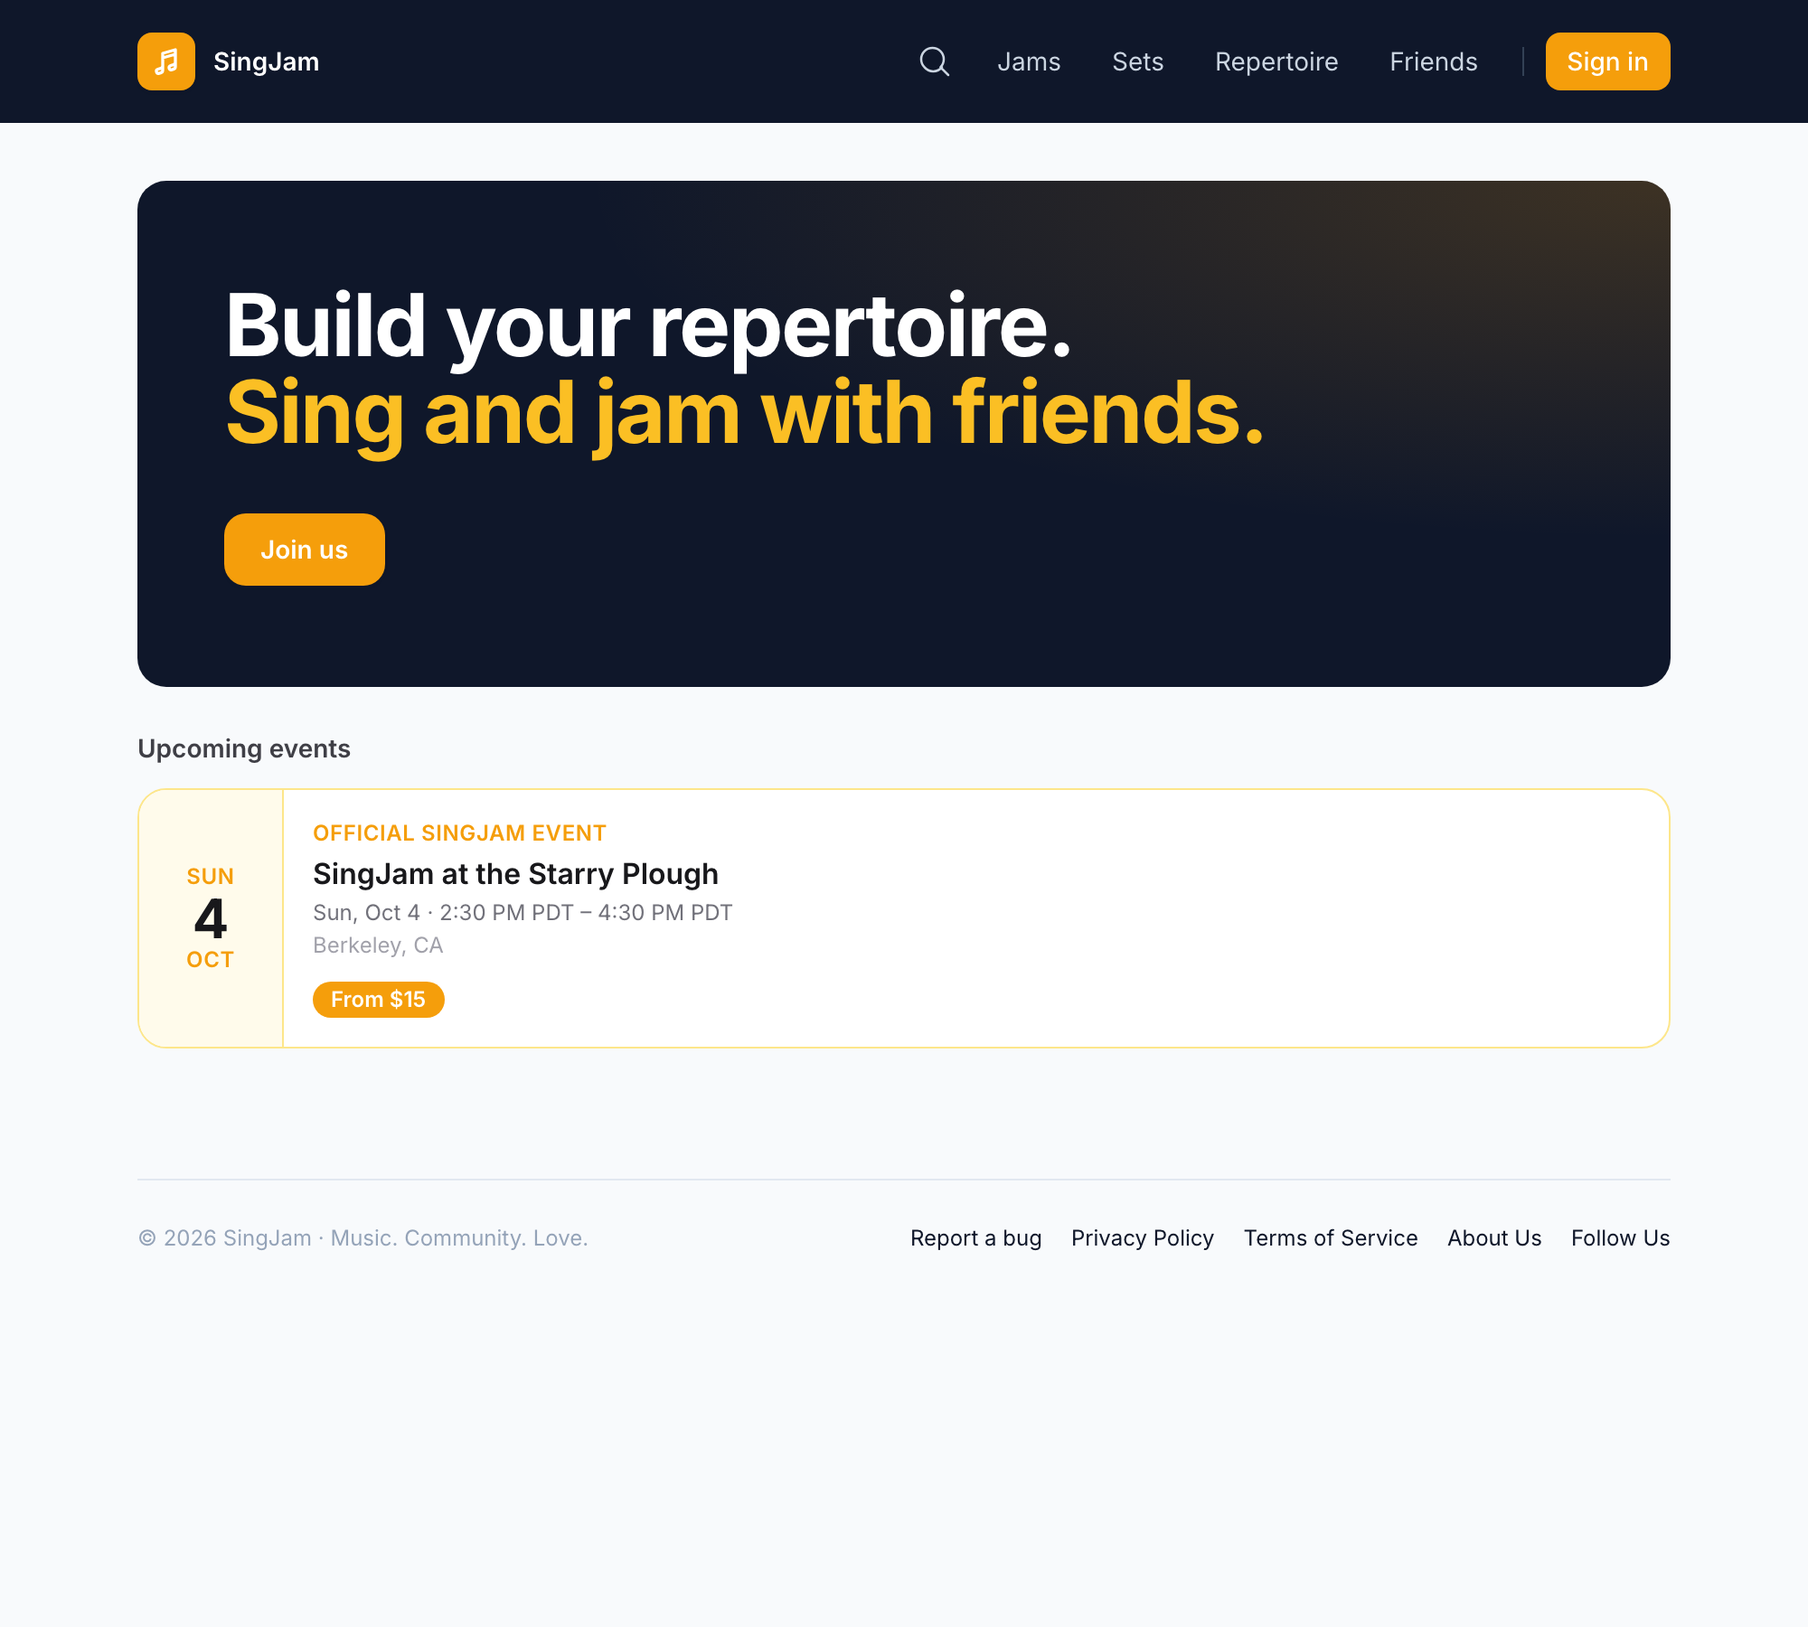
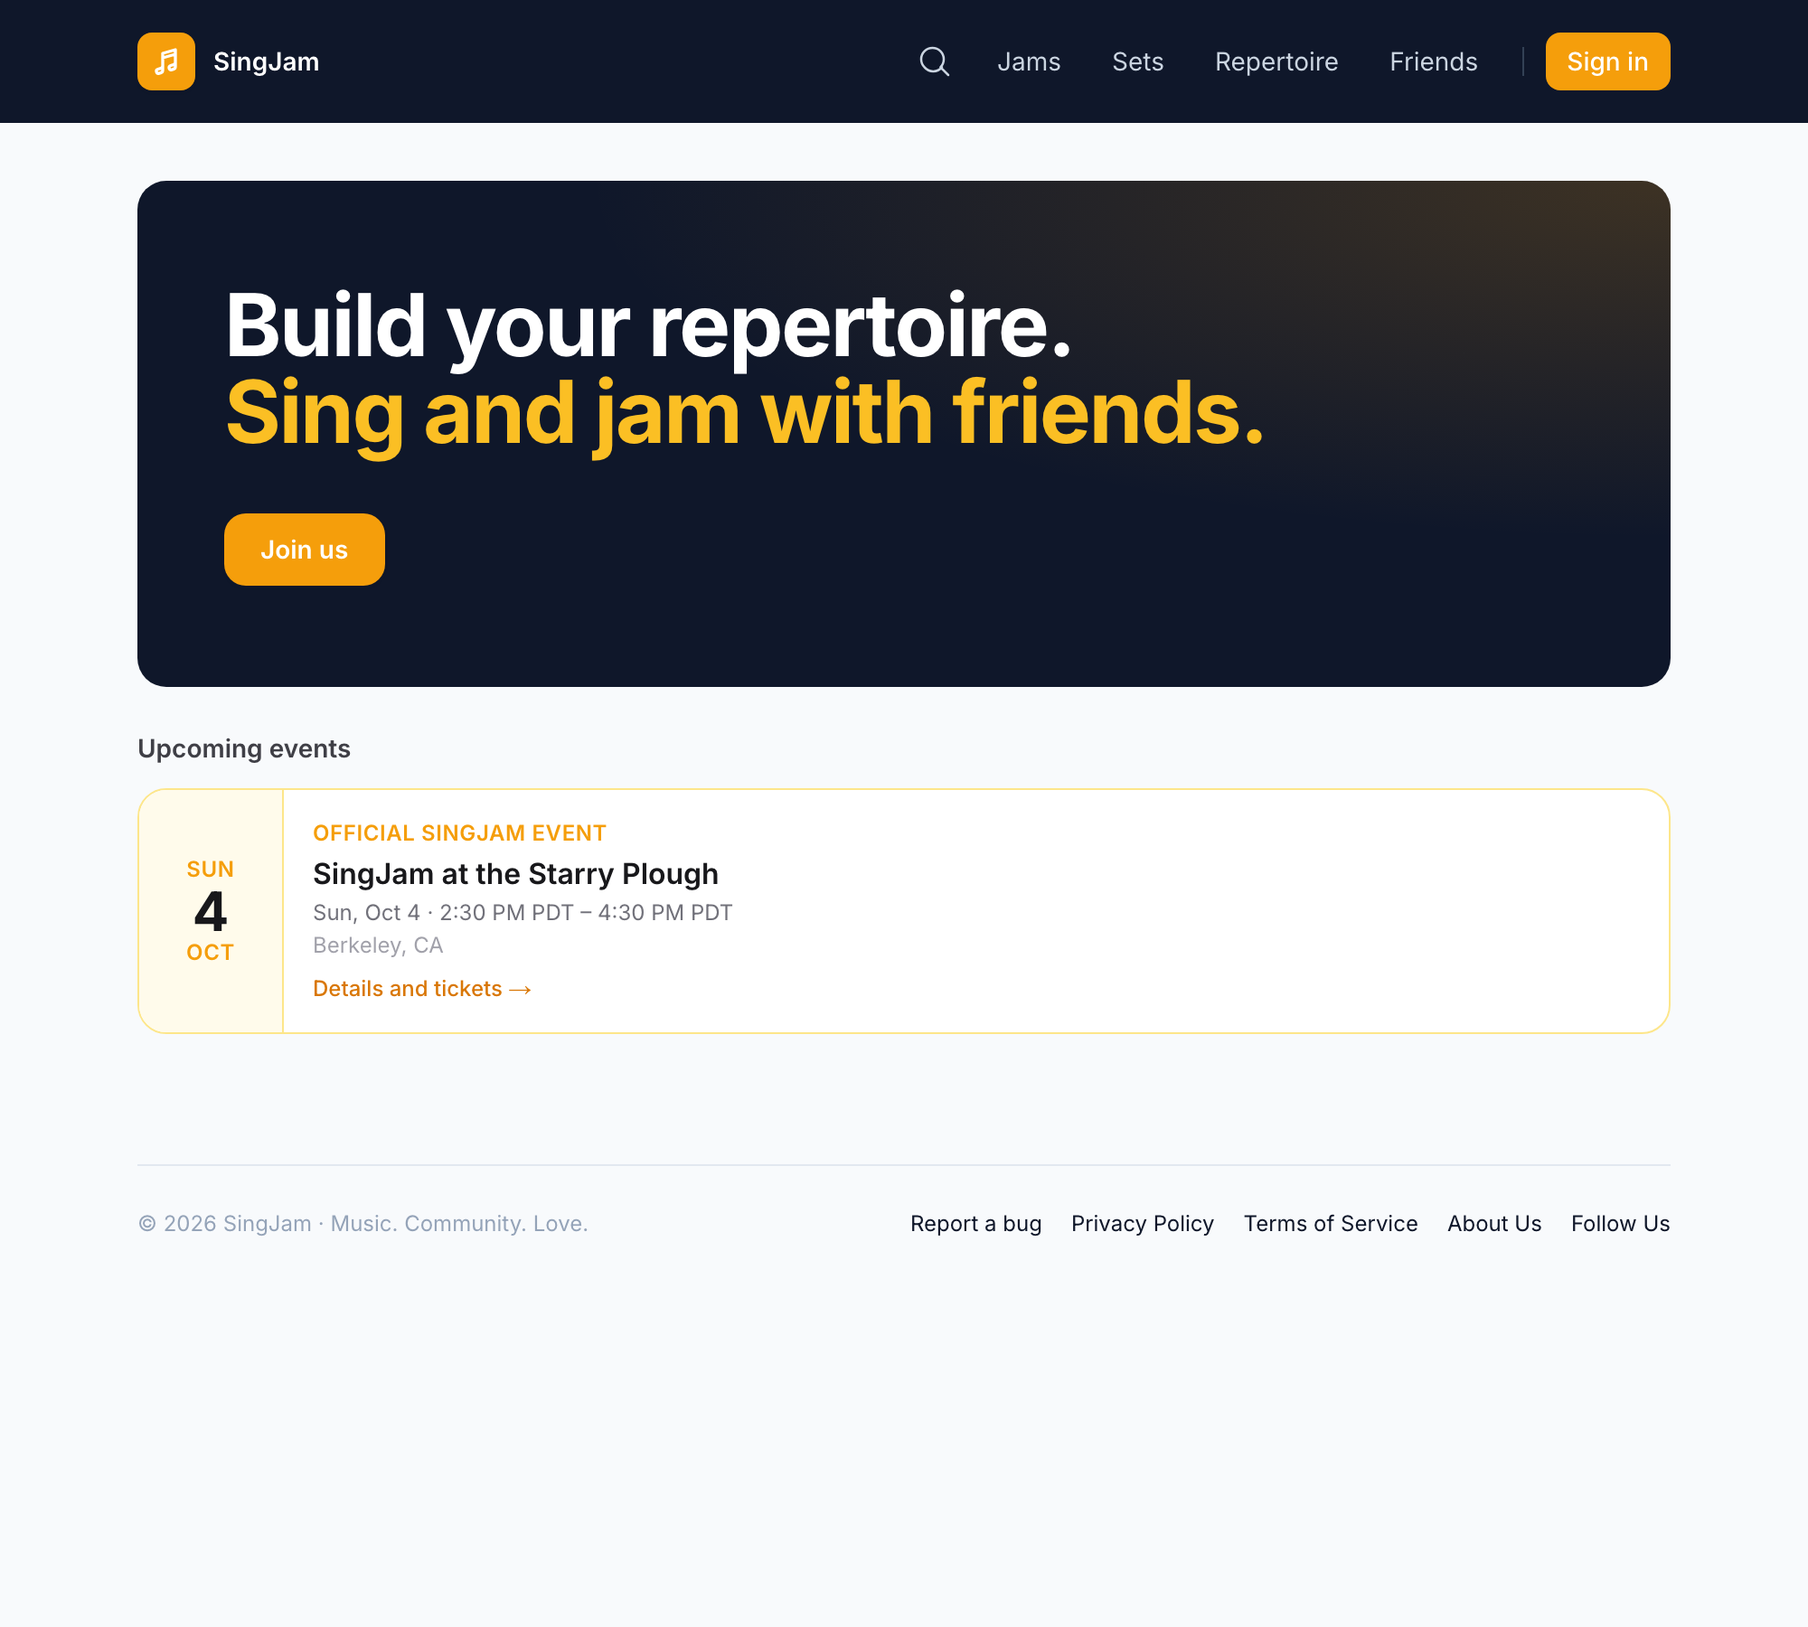
refactor: one "Details and tickets →" link instead of a price chip
The price chip was a solid amber pill, which reads as a primary button while
being deliberately unclickable — the card is the link. Comparing it against
Luma and Eventbrite made that plain: both keep price as flat information and
reserve tinted pills for status, and neither uses a filled primary colour for
something inert.

Ben's call is simpler than either: keep the card exactly as it looked, make
the whole thing clickable, and merge the old "View details →" and
"Get tickets ↗" into a single "Details and tickets →". So the listing says
what you can do and the detail page says what it costs.

The tier data still earns its place: it decides whether an event has anything
to sell, so the label degrades to "View details →" with no ticketing and
"Sold out — view details →" when there is nothing left to buy, rather than
walking someone into a checkout that will refuse them.

diff --git a/packages/core/src/utils/jamTicketState.test.ts b/packages/core/src/utils/jamTicketState.test.ts
@@ -1,5 +1,6 @@
 import { describe, it, expect } from 'vitest';
 import {
+  jamTicketCta,
   jamTicketState,
   summarizeTicketTiers,
   type JamTicketSummary,
@@ -26,7 +27,7 @@ describe('jamTicketState', () => {
     expect(jamTicketState('https://tickets.example.com', summary(), { now: NOW })).toEqual({
       label: 'Tickets',
       url: 'https://tickets.example.com',
-      muted: false,
+      kind: 'external',
     });
   });
 
@@ -55,7 +56,7 @@ describe('jamTicketState', () => {
     expect(jamTicketState(null, summary({ sold_out: true, on_sale_count: 0 }), { now: NOW })).toEqual({
       label: 'Sold out',
       url: null,
-      muted: true,
+      kind: 'unavailable',
     });
   });
 
@@ -65,7 +66,7 @@ describe('jamTicketState', () => {
       summary({ on_sale_count: 0, min_price_cents: null, next_sales_start_at: '2026-09-11T17:00:00Z' }),
       { timezone: 'America/Los_Angeles', now: NOW }
     );
-    expect(state).toEqual({ label: 'Tickets open Fri', url: null, muted: true });
+    expect(state).toEqual({ label: 'Tickets open Fri', url: null, kind: 'pending' });
   });
 
   it('names a date when sales open further out', () => {
@@ -87,7 +88,7 @@ describe('jamTicketState', () => {
 
   it('falls back to sales closed when nothing is on sale and nothing reopens', () => {
     const state = jamTicketState(null, summary({ on_sale_count: 0, min_price_cents: null }), { now: NOW });
-    expect(state).toEqual({ label: 'Sales closed', url: null, muted: true });
+    expect(state).toEqual({ label: 'Sales closed', url: null, kind: 'unavailable' });
   });
 });
 
@@ -193,5 +194,60 @@ describe('summarizeTicketTiers', () => {
       tier({ ticket_type_id: 't2', price_cents: 3600 }),
     ]);
     expect(jamTicketState(null, byJam.get('j1'), { now: NOW })?.label).toBe('From $15');
+  });
+});
+
+// A price is information, not an action: it must never come back as something a
+// component would style like a button. Everything else is status.
+describe('jamTicketState kinds', () => {
+  it('classifies a price as price and the rest as status', () => {
+    expect(jamTicketState(null, summary(), { now: NOW })?.kind).toBe('price');
+    expect(jamTicketState(null, summary({ min_price_cents: 0 }), { now: NOW })?.kind).toBe('price');
+    expect(jamTicketState(null, summary({ sold_out: true }), { now: NOW })?.kind).toBe('unavailable');
+    expect(jamTicketState('https://x.test', null, { now: NOW })?.kind).toBe('external');
+  });
+
+  it('only the external kind carries a url', () => {
+    for (const state of [
+      jamTicketState(null, summary(), { now: NOW }),
+      jamTicketState(null, summary({ sold_out: true }), { now: NOW }),
+      jamTicketState(null, summary({ on_sale_count: 0, min_price_cents: null }), { now: NOW }),
+    ]) {
+      expect(state?.url).toBeNull();
+    }
+    expect(jamTicketState('https://x.test', null, { now: NOW })?.url).toBe('https://x.test');
+  });
+});
+
+describe('jamTicketCta', () => {
+  it('offers tickets when there is something to buy', () => {
+    expect(jamTicketCta(null, summary(), { now: NOW })).toEqual({
+      label: 'Details and tickets',
+      hasTickets: true,
+    });
+    expect(jamTicketCta('https://x.test', null, { now: NOW }).label).toBe('Details and tickets');
+    expect(jamTicketCta(null, summary({ min_price_cents: 0 }), { now: NOW }).label).toBe('Details and tickets');
+  });
+
+  it('falls back to plain details when the event has no ticketing', () => {
+    expect(jamTicketCta(null, null, { now: NOW })).toEqual({
+      label: 'View details',
+      hasTickets: false,
+    });
+  });
+
+  // Pointing someone at a checkout that will refuse them is worse than silence.
+  it('says so when there is nothing left to buy', () => {
+    expect(jamTicketCta(null, summary({ sold_out: true, on_sale_count: 0 }), { now: NOW })).toEqual({
+      label: 'Sold out — view details',
+      hasTickets: false,
+    });
+    expect(jamTicketCta(null, summary({ on_sale_count: 0, min_price_cents: null }), { now: NOW }).label)
+      .toBe('Sales closed — view details');
+  });
+
+  it('still invites a click while sales are only pending', () => {
+    const pending = summary({ on_sale_count: 0, min_price_cents: null, next_sales_start_at: '2026-09-11T17:00:00Z' });
+    expect(jamTicketCta(null, pending, { timezone: 'UTC', now: NOW }).label).toBe('Details and tickets');
   });
 });

diff --git a/packages/core/src/utils/jamTicketState.ts b/packages/core/src/utils/jamTicketState.ts
@@ -105,8 +105,14 @@ export type JamTicketState = {
   label: string;
   /** Set only for events selling off-site; the caller opens it externally. */
   url: string | null;
-  /** True for states that report a fact rather than invite a click. */
-  muted: boolean;
+  /**
+   * How to render it. A price is information, so it reads as plain bold text —
+   * the pattern Eventbrite uses, and the reason this is not a filled pill: a
+   * solid primary-colour chip looks like a button and the card is the button.
+   * The other kinds are status, which get soft-tinted pills the way Luma's
+   * "Waitlist" / "Near Capacity" and this app's own RsvpBadge already do.
+   */
+  kind: "price" | "external" | "pending" | "unavailable";
 };
 
 function money(cents: number, currency: string | null): string {
@@ -120,19 +126,19 @@ export function jamTicketState(
   summary: JamTicketSummary | null | undefined,
   opts: { timezone?: string | null; now?: Date } = {}
 ): JamTicketState | null {
-  if (ticketsUrl) return { label: "Tickets", url: ticketsUrl, muted: false };
+  if (ticketsUrl) return { label: "Tickets", url: ticketsUrl, kind: "external" };
   if (!summary || summary.tier_count === 0) return null;
 
-  if (summary.sold_out) return { label: "Sold out", url: null, muted: true };
+  if (summary.sold_out) return { label: "Sold out", url: null, kind: "unavailable" };
 
   if (summary.on_sale_count > 0) {
     const cents = summary.min_price_cents ?? 0;
-    if (cents === 0) return { label: "Free", url: null, muted: false };
+    if (cents === 0) return { label: "Free", url: null, kind: "price" };
     const price = money(cents, summary.currency);
     return {
       label: summary.tier_count > 1 ? `From ${price}` : price,
       url: null,
-      muted: false,
+      kind: "price",
     };
   }
 
@@ -146,8 +152,30 @@ export function jamTicketState(
       timeZone: opts.timezone ?? undefined,
       ...(soon ? { weekday: "short" } : { month: "short", day: "numeric" }),
     });
-    return { label: `Tickets open ${when}`, url: null, muted: true };
+    return { label: `Tickets open ${when}`, url: null, kind: "pending" };
   }
 
-  return { label: "Sales closed", url: null, muted: true };
+  return { label: "Sales closed", url: null, kind: "unavailable" };
+}
+
+/**
+ * The single call-to-action line an official event's listing card shows.
+ *
+ * Listing cards say what you can do, not what it costs — price and tiers live
+ * on the detail page where you actually buy. The one ticket fact worth
+ * surfacing in a list is that there is nothing left to buy, because sending
+ * someone to a checkout that will refuse them is worse than saying nothing.
+ * The caller appends the arrow.
+ */
+export function jamTicketCta(
+  ticketsUrl: string | null | undefined,
+  summary: JamTicketSummary | null | undefined,
+  opts: { timezone?: string | null; now?: Date } = {}
+): { label: string; hasTickets: boolean } {
+  const state = jamTicketState(ticketsUrl, summary, opts);
+  if (!state) return { label: "View details", hasTickets: false };
+  if (state.kind === "unavailable") {
+    return { label: `${state.label} — view details`, hasTickets: false };
+  }
+  return { label: "Details and tickets", hasTickets: true };
 }

diff --git a/apps/native/components/JamCard.tsx b/apps/native/components/JamCard.tsx
@@ -1,13 +1,7 @@
 import { View, Text, Image, TouchableOpacity, Linking } from 'react-native';
 import type { GestureResponderEvent } from 'react-native';
 import { Ionicons } from '@expo/vector-icons';
-import { jamTicketState, type JamTicketSummary } from '@singjam/core';
-
-// Web's listing chip is inert because its detail page carries the real ticket
-// button. The native detail page cannot sell tickets — Stripe checkout is
-// web-only — so here the chip is the ticket path: out to the external seller,
-// or to the event's web page where checkout lives.
-const WEB_URL = process.env.EXPO_PUBLIC_WEB_URL ?? 'https://singjam.org';
+import { jamTicketCta, type JamTicketSummary } from '@singjam/core';
 
 export type JamItem = {
   id: string;
@@ -78,8 +72,8 @@ export default function JamCard({ jam, myId, onPress, onManage }: {
   // Past events keep their card in the list, where a price or a ticket link
   // would be nonsense — matches web's JamListCard.
   const isPast = (jam.ends_at ?? jam.starts_at ?? '') < new Date().toISOString();
-  const ticketState = isOfficial && !isPast
-    ? jamTicketState(jam.tickets_url, jam.ticket_summary, { timezone: jam.timezone })
+  const cta = isOfficial && !isPast
+    ? jamTicketCta(jam.tickets_url, jam.ticket_summary, { timezone: jam.timezone })
     : null;
 
   return (
@@ -175,22 +169,22 @@ export default function JamCard({ jam, myId, onPress, onManage }: {
           </Text>
         ) : null)}
 
-        {ticketState ? (
-          <View className="mt-2 flex-row">
-            {ticketState.muted ? (
-              <View className="rounded-full bg-zinc-100 px-2.5 py-0.5">
-                <Text className="text-xs font-semibold text-zinc-500">{ticketState.label}</Text>
-              </View>
-            ) : (
-              <TouchableOpacity
-                onPress={() => Linking.openURL(ticketState.url ?? `${WEB_URL}/jam/${jam.id}`)}
-                hitSlop={{ top: 6, bottom: 6, left: 6, right: 6 }}
-                className="rounded-full bg-amber-500 px-2.5 py-0.5"
-              >
-                <Text className="text-xs font-semibold text-white">{ticketState.label} ↗</Text>
-              </TouchableOpacity>
-            )}
-          </View>
+        {/* Off-site ticketing is the one thing the native detail screen cannot
+            reach — no Stripe checkout there, and it never renders tickets_url —
+            so an external event's CTA opens the seller rather than dead-ending. */}
+        {cta ? (
+          jam.tickets_url ? (
+            <TouchableOpacity
+              onPress={() => Linking.openURL(jam.tickets_url!)}
+              hitSlop={{ top: 6, bottom: 6, left: 6, right: 6 }}
+            >
+              <Text className="mt-2 text-xs font-medium text-amber-600">{cta.label} ↗</Text>
+            </TouchableOpacity>
+          ) : (
+            <Text className={`mt-2 text-xs font-medium ${cta.hasTickets ? 'text-amber-600' : 'text-zinc-500'}`}>
+              {cta.label} →
+            </Text>
+          )
         ) : null}
       </View>
     </TouchableOpacity>

diff --git a/apps/web/components/JamsContent.tsx b/apps/web/components/JamsContent.tsx
@@ -3,9 +3,8 @@
 import { useEffect, useLayoutEffect, useRef, useState } from "react";
 import Link from "next/link";
 import Image from "next/image";
-import { fetchAllRows, jamTicketState, summarizeTicketTiers, type JamTicketSummary, type JamTicketTier } from "@singjam/core";
+import { fetchAllRows, jamTicketCta, summarizeTicketTiers, type JamTicketSummary, type JamTicketTier } from "@singjam/core";
 import { FormattedDate, FormattedTime } from "@/components/FormattedTime";
-import TicketStateChip from "@/components/TicketStateChip";
 import { supabaseBrowser } from "@/lib/supabase/client";
 
 type RsvpStatus = "attending" | "waitlist" | "cancelled";
@@ -73,8 +72,8 @@ function JamListCard({ jam, tags, hostLabel, hostUsername, isOfficial, ticketSum
   // would be nonsense — the summary is only fetched for upcoming ones, but
   // tickets_url alone would otherwise still render a chip.
   const isPast = (jam.ends_at ?? jam.starts_at) < new Date().toISOString();
-  const ticketState = isOfficial && !isPast
-    ? jamTicketState(jam.tickets_url, ticketSummary, { timezone: jam.timezone })
+  const cta = isOfficial && !isPast
+    ? jamTicketCta(jam.tickets_url, ticketSummary, { timezone: jam.timezone })
     : null;
 
   useEffect(() => {
@@ -100,7 +99,7 @@ function JamListCard({ jam, tags, hostLabel, hostUsername, isOfficial, ticketSum
   }
 
   const cardBody = (
-    <div className={`flex overflow-hidden rounded-2xl border bg-white transition-colors ${isOfficial ? "border-amber-200 hover:border-amber-300" : "border-zinc-200 hover:border-zinc-300"}`}>
+    <div className={`group flex overflow-hidden rounded-2xl border bg-white transition-colors ${isOfficial ? "border-amber-200 hover:border-amber-300" : "border-zinc-200 hover:border-zinc-300"}`}>
       {jam.image_url ? (
         <div className="relative shrink-0 w-24 sm:w-32 overflow-hidden bg-black">
           <Image src={jam.image_url} alt={jam.name ?? "Event"} fill className="object-contain" sizes="128px" />
@@ -169,10 +168,10 @@ function JamListCard({ jam, tags, hostLabel, hostUsername, isOfficial, ticketSum
             {hostUsername && <span className="ml-1">@{hostUsername}</span>}
           </p>
         ))}
-        {ticketState && (
-          <div className="mt-2">
-            <TicketStateChip state={ticketState} />
-          </div>
+        {cta && (
+          <p className={`mt-2 text-xs font-medium ${cta.hasTickets ? "text-amber-600 group-hover:text-amber-500" : "text-zinc-500 group-hover:text-zinc-700"}`}>
+            {cta.label} →
+          </p>
         )}
       </div>
     </div>

diff --git a/apps/web/components/JamEventCard.tsx b/apps/web/components/JamEventCard.tsx
@@ -1,8 +1,7 @@
 import Link from "next/link";
 import Image from "next/image";
-import { jamTicketState, type JamTicketSummary } from "@singjam/core";
+import { jamTicketCta, type JamTicketSummary } from "@singjam/core";
 import { FormattedDate, FormattedTime } from "@/components/FormattedTime";
-import TicketStateChip from "@/components/TicketStateChip";
 
 export type JamEventCardData = {
   id: string;
@@ -22,12 +21,12 @@ export default function JamEventCard({
   jam: JamEventCardData;
   ticketSummary?: JamTicketSummary | null;
 }) {
-  const ticketState = jamTicketState(jam.tickets_url, ticketSummary, { timezone: jam.timezone });
+  const cta = jamTicketCta(jam.tickets_url, ticketSummary, { timezone: jam.timezone });
 
   return (
     <Link
       href={`/jam/${jam.id}`}
-      className="flex overflow-hidden rounded-2xl border border-amber-200 bg-white transition-colors hover:border-amber-300"
+      className="group flex overflow-hidden rounded-2xl border border-amber-200 bg-white transition-colors hover:border-amber-300"
     >
       {jam.image_url ? (
         <div className="relative shrink-0 w-24 sm:w-32 overflow-hidden bg-black">
@@ -59,11 +58,11 @@ export default function JamEventCard({
           </p>
         )}
         {jam.neighborhood && <p className="text-xs text-zinc-400 mt-0.5">{jam.neighborhood}</p>}
-        {ticketState && (
-          <div className="mt-2">
-            <TicketStateChip state={ticketState} />
-          </div>
-        )}
+        {/* Not a link: the card is the link, so a nested anchor to the same
+            place would be invalid markup. It is the card's affordance. */}
+        <p className={`mt-2 text-xs font-medium ${cta.hasTickets ? "text-amber-600 group-hover:text-amber-500" : "text-zinc-500 group-hover:text-zinc-700"}`}>
+          {cta.label} →
+        </p>
       </div>
     </Link>
   );
